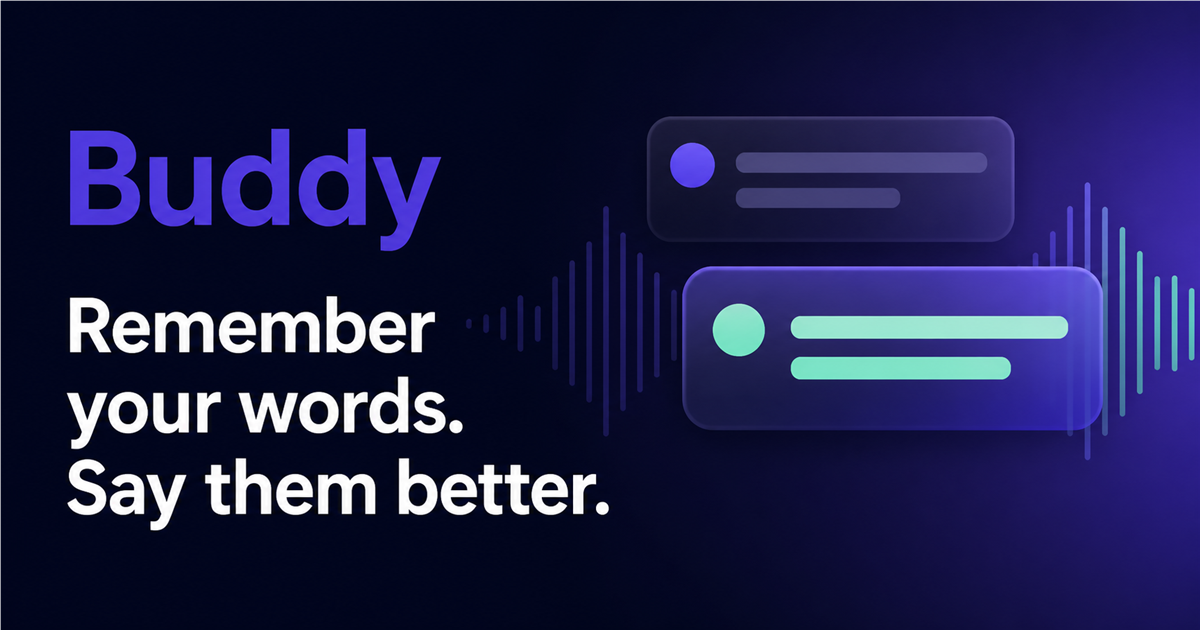
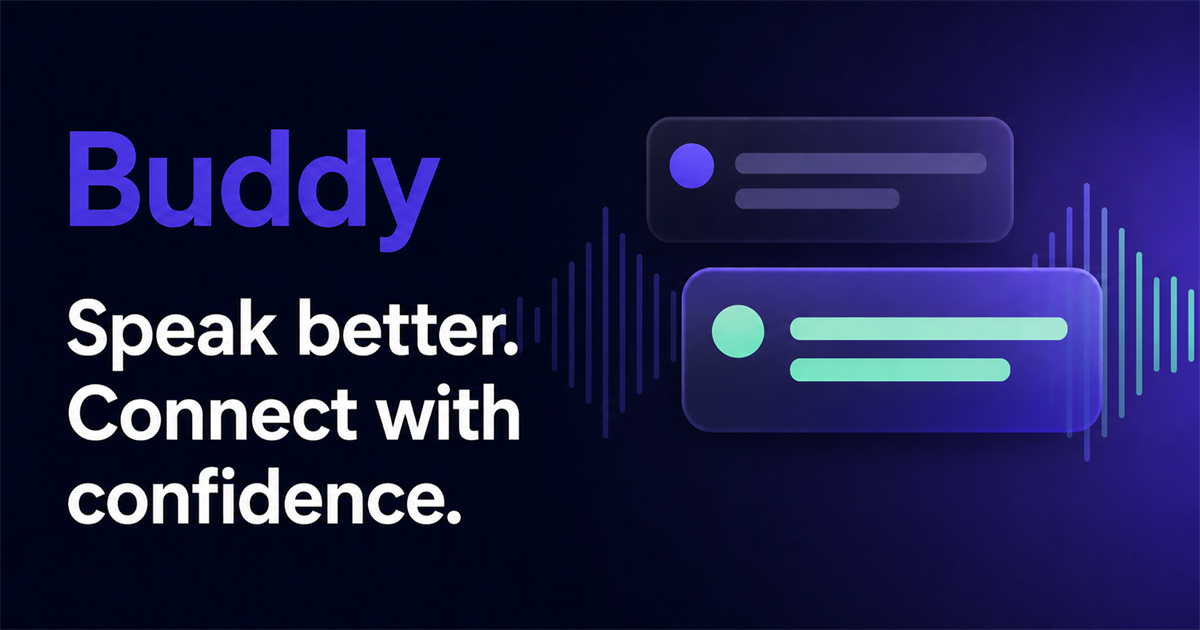
Refocus landing copy on conversation coaching

diff --git a/site/be/index.html b/site/be/index.html
@@ -4,7 +4,7 @@
   <meta charset="utf-8">
   <meta name="viewport" content="width=device-width, initial-scale=1">
   <title>Chitchat Buddy — прыватны маўленчы ШІ-памочнік для камп'ютара</title>
-  <meta name="description" content="Запісвайце свае рэплікі, выразайце паўзы, атрымлівайце транскрыпцыю па запыце і трэніруйце дыялогі з ШІ ў Windows, macOS і Linux.">
+  <meta name="description" content="Практыкуйце размовы, аналізуйце вымаўленне і манеру маўлення, удасканальвайце слоўнік і граматыку і вучыцеся праз дыялогі з ШІ.">
   <meta name="robots" content="index, follow, max-image-preview:large">
   <meta name="theme-color" content="#5b46d8">
   <meta name="color-scheme" content="light">
@@ -17,8 +17,8 @@
   <meta property="og:type" content="website">
   <meta property="og:site_name" content="Chitchat Buddy">
   <meta property="og:locale" content="be_BY">
-  <meta property="og:title" content="Chitchat Buddy — Памятайце свае словы. Кажыце іх лепш.">
-  <meta property="og:description" content="Лакальны настольны памочнік з запісамі без доўгіх паўз, рэдагаванай транскрыпцыяй, трэніроўкай вымаўлення і дыялогам з ШІ.">
+  <meta property="og:title" content="Chitchat Buddy — Гаварыце лепш. Размаўляйце ўпэўнена.">
+  <meta property="og:description" content="Практыкуйце размовы, аналізуйце сваё маўленне, удасканальвайце слоўнік і граматыку і вучыцеся праз кантэкстныя дыялогі з ШІ.">
   <meta property="og:url" content="__SITE_BASE_URL__/be/">
   <meta property="og:image" content="__SITE_BASE_URL__/og.png">
   <meta property="og:image:width" content="1200">
@@ -26,7 +26,7 @@
   <meta property="og:image:alt" content="Buddy з галасавым дыялогам і гукавой хваляй">
   <meta name="twitter:card" content="summary_large_image">
   <meta name="twitter:title" content="Chitchat Buddy — прыватны маўленчы памочнік для камп'ютара">
-  <meta name="twitter:description" content="Запісвайце, удасканальвайце і пераслухоўвайце сваё маўленне з лакальнай апрацоўкай і ШІ на ваш выбар.">
+  <meta name="twitter:description" content="Практыкуйце размовы, аналізуйце сваё маўленне і набывайце ўпэўненасць з лакальнай апрацоўкай і кантэкстным ШІ.">
   <meta name="twitter:image" content="__SITE_BASE_URL__/og.png">
   <link rel="icon" type="image/png" sizes="32x32" href="../favicon-32.png">
   <link rel="apple-touch-icon" sizes="180x180" href="../apple-touch-icon.png">
@@ -38,7 +38,7 @@
     "@type": "SoftwareApplication",
     "name": "Chitchat Buddy",
     "alternateName": "Buddy",
-    "description": "Прыватны настольны памочнік, які захоўвае рэплікі без доўгіх паўз, транскрыбуе, дапамагае з вымаўленнем і падтрымлівае кантэкст дыялогу з ШІ.",
+    "description": "Прыватны настольны памочнік для практыкі размоў, аналізу маўлення, удасканалення слоўніка і граматыкі і навучання праз дыялогі з ШІ.",
     "url": "__SITE_BASE_URL__/be/",
     "downloadUrl": "https://github.com/__BUDDY_REPOSITORY__/releases/latest/download/Buddy-Setup.exe",
     "applicationCategory": "ProductivityApplication",
@@ -96,8 +96,8 @@
     <section class="hero section-shell">
       <div class="hero-copy">
         <p class="eyebrow"><span class="status-dot" aria-hidden="true"></span> Windows стабільная · macOS бэта · Linux папярэдняя</p>
-        <h1>Памятайце свае словы.<br><span>Кажыце іх лепш.</span></h1>
-        <p class="hero-lede">Buddy запісвае вашы рэплікі, ператварае маўленне ў рэдагавальны працэс навучання і захоўвае кантэкст галасавога дыялогу з ШІ, а асноўная апрацоўка гуку застаецца на вашым ПК.</p>
+        <h1>Гаварыце лепш.<br><span>Размаўляйце ўпэўнена.</span></h1>
+        <p class="hero-lede">Buddy дапамагае практыкаваць размовы, аналізаваць вымаўленне і манеру маўлення, удасканальваць слоўнікавы запас і граматыку і вучыцца праз галасавыя дыялогі з ШІ, якія захоўваюць кантэкст, — пры гэтым гук мікрафона і асноўная апрацоўка маўлення застаюцца на вашым ПК.</p>
         <div class="hero-actions"><a class="button button-primary" data-download-asset="Buddy-Setup.exe" aria-describedby="release-note" href="https://github.com/__BUDDY_REPOSITORY__/releases/latest/download/Buddy-Setup.exe">Усталёўшчык Windows</a><a class="button button-secondary" href="#download">Іншыя платформы</a></div>
         <p class="release-status" id="release-status" aria-live="polite">Windows стабільная · macOS бэта · Linux папярэдняя</p>
         <ul class="hero-trust" aria-label="Асноўныя перавагі"><li><span aria-hidden="true">✓</span> Асноўныя функцыі без рэгістрацыі</li><li><span aria-hidden="true">✓</span> Лакальная апрацоўка гуку</li><li><span aria-hidden="true">✓</span> Аднаўляльныя запісы</li></ul>

diff --git a/site/de/index.html b/site/de/index.html
@@ -4,7 +4,7 @@
   <meta charset="utf-8">
   <meta name="viewport" content="width=device-width, initial-scale=1">
   <title>Chitchat Buddy — Privater KI-Sprachbegleiter für den Desktop</title>
-  <meta name="description" content="Zeichne eigene Beiträge auf, entferne Pausen, transkribiere bei Bedarf und übe KI-Sprachdialoge unter Windows, macOS und Linux.">
+  <meta name="description" content="Übe Gespräche, analysiere Aussprache und Ausdruck, verbessere Wortschatz und Grammatik und lerne in gesprochenen KI-Dialogen.">
   <meta name="robots" content="index, follow, max-image-preview:large">
   <meta name="theme-color" content="#5b46d8">
   <meta name="color-scheme" content="light">
@@ -17,8 +17,8 @@
   <meta property="og:type" content="website">
   <meta property="og:site_name" content="Chitchat Buddy">
   <meta property="og:locale" content="de_DE">
-  <meta property="og:title" content="Chitchat Buddy — Erinnere dich an deine Worte. Sag sie besser.">
-  <meta property="og:description" content="Ein lokal arbeitender Desktop-Sprachbegleiter für Aufnahmen ohne lange Pausen, editierbare Transkripte, Aussprachetraining und KI-Dialoge.">
+  <meta property="og:title" content="Chitchat Buddy — Besser sprechen. Sicherer kommunizieren.">
+  <meta property="og:description" content="Übe Gespräche, verstehe deine Sprechweise, verbessere Wortschatz und Grammatik und lerne in kontextbezogenen KI-Dialogen.">
   <meta property="og:url" content="__SITE_BASE_URL__/de/">
   <meta property="og:image" content="__SITE_BASE_URL__/og.png">
   <meta property="og:image:width" content="1200">
@@ -26,7 +26,7 @@
   <meta property="og:image:alt" content="Buddy mit einem Sprachdialog und einer Audio-Wellenform">
   <meta name="twitter:card" content="summary_large_image">
   <meta name="twitter:title" content="Chitchat Buddy — Privater Sprachbegleiter für den Desktop">
-  <meta name="twitter:description" content="Nimm Gesagtes auf, verbessere es und höre es erneut – mit lokaler Sprachverarbeitung und frei wählbarer KI.">
+  <meta name="twitter:description" content="Übe Gespräche, analysiere deine Sprechweise und gewinne Sicherheit mit lokaler Sprachverarbeitung und kontextbezogener KI.">
   <meta name="twitter:image" content="__SITE_BASE_URL__/og.png">
   <link rel="icon" type="image/png" sizes="32x32" href="../favicon-32.png">
   <link rel="apple-touch-icon" sizes="180x180" href="../apple-touch-icon.png">
@@ -38,7 +38,7 @@
     "@type": "SoftwareApplication",
     "name": "Chitchat Buddy",
     "alternateName": "Buddy",
-    "description": "Ein datenschutzfreundlicher Desktop-Sprachbegleiter für Besprechungen ohne lange Pausen, editierbare Transkripte, Aussprachetraining und KI-Dialoge.",
+    "description": "Ein datenschutzfreundlicher Desktop-Begleiter zum Üben von Gesprächen, Analysieren der Sprechweise und Verbessern von Wortschatz und Grammatik.",
     "url": "__SITE_BASE_URL__/de/",
     "downloadUrl": "https://github.com/__BUDDY_REPOSITORY__/releases/latest/download/Buddy-Setup.exe",
     "applicationCategory": "ProductivityApplication",
@@ -96,8 +96,8 @@
     <section class="hero section-shell">
       <div class="hero-copy">
         <p class="eyebrow"><span class="status-dot" aria-hidden="true"></span> Windows stabil · macOS Beta · Linux Vorschau</p>
-        <h1>Erinnere dich an deine Worte.<br><span>Sag sie besser.</span></h1>
-        <p class="hero-lede">Buddy zeichnet deine Beiträge auf, macht aus Sprache einen editierbaren Trainingsablauf und hält den Kontext eines gesprochenen KI-Dialogs – während die zentrale Sprachverarbeitung auf deinem PC bleibt.</p>
+        <h1>Besser sprechen.<br><span>Sicherer kommunizieren.</span></h1>
+        <p class="hero-lede">Buddy hilft dir, Gespräche zu üben, Aussprache und Ausdruck zu analysieren, Wortschatz und Grammatik zu verbessern und in kontextbezogenen gesprochenen KI-Dialogen zu lernen – während Mikrofon-Audio und zentrale Sprachverarbeitung auf deinem PC bleiben.</p>
         <div class="hero-actions"><a class="button button-primary" data-download-asset="Buddy-Setup.exe" aria-describedby="release-note" href="https://github.com/__BUDDY_REPOSITORY__/releases/latest/download/Buddy-Setup.exe">Windows-Installer</a><a class="button button-secondary" href="#download">Andere Plattformen</a></div>
         <p class="release-status" id="release-status" aria-live="polite">Windows stabil · macOS Beta · Linux Vorschau</p>
         <ul class="hero-trust" aria-label="Wichtigste Vorteile"><li><span aria-hidden="true">✓</span> Kein Konto für Kernfunktionen</li><li><span aria-hidden="true">✓</span> Lokale Audioverarbeitung</li><li><span aria-hidden="true">✓</span> Absturzsichere Aufnahmen</li></ul>

diff --git a/site/es/index.html b/site/es/index.html
@@ -4,7 +4,7 @@
   <meta charset="utf-8">
   <meta name="viewport" content="width=device-width, initial-scale=1">
   <title>Chitchat Buddy — Asistente de voz con IA privada para escritorio</title>
-  <meta name="description" content="Graba tus intervenciones, elimina pausas, transcribe bajo demanda y practica conversaciones con IA en Windows, macOS y Linux.">
+  <meta name="description" content="Practica conversaciones, analiza tu pronunciación y expresión, mejora tu vocabulario y gramática y aprende mediante diálogos hablados con IA.">
   <meta name="robots" content="index, follow, max-image-preview:large">
   <meta name="theme-color" content="#5b46d8">
   <meta name="color-scheme" content="light">
@@ -17,8 +17,8 @@
   <meta property="og:type" content="website">
   <meta property="og:site_name" content="Chitchat Buddy">
   <meta property="og:locale" content="es_ES">
-  <meta property="og:title" content="Chitchat Buddy — Recuerda tus palabras. Exprésalas mejor.">
-  <meta property="og:description" content="Un asistente de voz local para escritorio con grabaciones sin pausas largas, transcripción editable, pronunciación y diálogo con IA.">
+  <meta property="og:title" content="Chitchat Buddy — Habla mejor. Comunícate con confianza.">
+  <meta property="og:description" content="Practica conversaciones, comprende cómo hablas, mejora vocabulario y gramática y aprende mediante diálogos contextuales con IA.">
   <meta property="og:url" content="__SITE_BASE_URL__/es/">
   <meta property="og:image" content="__SITE_BASE_URL__/og.png">
   <meta property="og:image:width" content="1200">
@@ -26,7 +26,7 @@
   <meta property="og:image:alt" content="Buddy con una conversación de voz y una forma de onda de audio">
   <meta name="twitter:card" content="summary_large_image">
   <meta name="twitter:title" content="Chitchat Buddy — Asistente de voz privado para escritorio">
-  <meta name="twitter:description" content="Graba, mejora y vuelve a escuchar lo que dices, con procesamiento local y el proveedor de IA que elijas.">
+  <meta name="twitter:description" content="Practica conversaciones, analiza cómo hablas y gana confianza con procesamiento local y diálogo contextual con IA.">
   <meta name="twitter:image" content="__SITE_BASE_URL__/og.png">
   <link rel="icon" type="image/png" sizes="32x32" href="../favicon-32.png">
   <link rel="apple-touch-icon" sizes="180x180" href="../apple-touch-icon.png">
@@ -38,7 +38,7 @@
     "@type": "SoftwareApplication",
     "name": "Chitchat Buddy",
     "alternateName": "Buddy",
-    "description": "Asistente de voz privado para escritorio, pensado para recordar reuniones sin pausas largas, transcribir, mejorar la pronunciación y conversar con IA.",
+    "description": "Asistente privado para practicar conversaciones, analizar el habla, mejorar vocabulario y gramática y aprender mediante diálogos hablados con IA.",
     "url": "__SITE_BASE_URL__/es/",
     "downloadUrl": "https://github.com/__BUDDY_REPOSITORY__/releases/latest/download/Buddy-Setup.exe",
     "applicationCategory": "ProductivityApplication",
@@ -100,8 +100,8 @@
     <section class="hero section-shell">
       <div class="hero-copy">
         <p class="eyebrow"><span class="status-dot" aria-hidden="true"></span> Windows estable · macOS beta · Linux preliminar</p>
-        <h1>Recuerda tus palabras.<br><span>Exprésalas mejor.</span></h1>
-        <p class="hero-lede">Buddy graba tus intervenciones, convierte la voz en un proceso de mejora editable y mantiene el contexto de una conversación hablada con IA, mientras el núcleo de audio permanece en tu PC.</p>
+        <h1>Habla mejor.<br><span>Comunícate con confianza.</span></h1>
+        <p class="hero-lede">Buddy te ayuda a practicar conversaciones, analizar tu pronunciación y tu forma de expresarte, mejorar tu vocabulario y gramática y aprender mediante diálogos hablados y contextuales con IA, mientras el audio del micrófono y el procesamiento principal del habla permanecen en tu PC.</p>
         <div class="hero-actions">
           <a class="button button-primary" data-download-asset="Buddy-Setup.exe" aria-describedby="release-note" href="https://github.com/__BUDDY_REPOSITORY__/releases/latest/download/Buddy-Setup.exe">Instalador de Windows</a>
           <a class="button button-secondary" href="#download">Otras plataformas</a>

diff --git a/site/index.html b/site/index.html
@@ -4,7 +4,7 @@
   <meta charset="utf-8">
   <meta name="viewport" content="width=device-width, initial-scale=1">
   <title>Chitchat Buddy — Private AI speech companion for desktop</title>
-  <meta name="description" content="Record your own meeting speech, cut pauses, transcribe on demand, practise clearer English, and hold contextual voice conversations on Windows, macOS, and Linux.">
+  <meta name="description" content="Practise conversations, analyse pronunciation and delivery, improve vocabulary and grammar, and learn through contextual spoken AI dialogue on desktop.">
   <meta name="robots" content="index, follow, max-image-preview:large">
   <meta name="theme-color" content="#5b46d8">
   <meta name="color-scheme" content="light">
@@ -16,8 +16,8 @@
   <link rel="alternate" hreflang="x-default" href="__SITE_BASE_URL__/">
   <meta property="og:type" content="website">
   <meta property="og:site_name" content="Chitchat Buddy">
-  <meta property="og:title" content="Chitchat Buddy — Remember your words. Say them better.">
-  <meta property="og:description" content="A local-first desktop speech companion for pause-cut meeting recall, editable transcription, pronunciation coaching, and contextual AI dialog.">
+  <meta property="og:title" content="Chitchat Buddy — Speak better. Connect with confidence.">
+  <meta property="og:description" content="Practise conversations, understand how you speak, refine vocabulary and grammar, and learn through contextual spoken AI dialogue.">
   <meta property="og:url" content="__SITE_BASE_URL__/">
   <meta property="og:image" content="__SITE_BASE_URL__/og.png">
   <meta property="og:image:width" content="1200">
@@ -25,7 +25,7 @@
   <meta property="og:image:alt" content="Buddy speech companion with a conversation and audio waveform">
   <meta name="twitter:card" content="summary_large_image">
   <meta name="twitter:title" content="Chitchat Buddy — Private AI speech companion for desktop">
-  <meta name="twitter:description" content="Record, improve, and revisit what you say — with local speech processing and your choice of AI provider.">
+  <meta name="twitter:description" content="Practise conversations, analyse how you speak, and build confidence with local speech processing and contextual AI dialogue.">
   <meta name="twitter:image" content="__SITE_BASE_URL__/og.png">
   <link rel="icon" type="image/png" sizes="32x32" href="./favicon-32.png">
   <link rel="apple-touch-icon" sizes="180x180" href="./apple-touch-icon.png">
@@ -37,7 +37,7 @@
     "@type": "SoftwareApplication",
     "name": "Chitchat Buddy",
     "alternateName": "Buddy",
-    "description": "A privacy-first desktop speech companion for pause-cut meeting recall, editable transcription, pronunciation coaching, and contextual AI dialog.",
+    "description": "A privacy-first desktop companion for practising conversations, analysing speech, improving vocabulary and grammar, and learning through contextual spoken AI dialog.",
     "url": "__SITE_BASE_URL__/",
     "downloadUrl": "https://github.com/__BUDDY_REPOSITORY__/releases/latest/download/Buddy-Setup.exe",
     "applicationCategory": "ProductivityApplication",
@@ -142,8 +142,8 @@
     <section class="hero section-shell">
       <div class="hero-copy">
         <p class="eyebrow"><span class="status-dot" aria-hidden="true"></span> Windows stable · macOS beta · Linux preview</p>
-        <h1>Remember your words.<br><span>Say them better.</span></h1>
-        <p class="hero-lede">Buddy records your own remarks, turns speech into an editable coaching loop, and keeps a spoken AI conversation in context — while the core speech stack stays on your PC.</p>
+        <h1>Speak better.<br><span>Connect with confidence.</span></h1>
+        <p class="hero-lede">Buddy helps you practise conversations, analyse your pronunciation and delivery, refine your vocabulary and grammar, and learn through contextual spoken AI dialogue — all while microphone audio and core speech processing stay on your PC.</p>
         <div class="hero-actions">
           <a class="button button-primary" data-download-asset="Buddy-Setup.exe" aria-describedby="release-note" href="https://github.com/__BUDDY_REPOSITORY__/releases/latest/download/Buddy-Setup.exe">Windows installer</a>
           <a class="button button-secondary" href="#download">Other platforms</a>

diff --git a/site/be/privacy/index.html b/site/be/privacy/index.html
@@ -13,10 +13,9 @@
 </head>
 <body class="guide-page policy-page" data-locale="be" data-root="../.." data-route="privacy/">
   <a class="skip-link" href="#main">Перайсці да асноўнага зместу</a>
-  <header class="site-header"><div class="nav-shell">
+  <header class="site-header document-header"><div class="nav-shell">
     <a class="brand" href="../" aria-label="Галоўная старонка Chitchat Buddy"><span class="brand-mark" aria-hidden="true">b</span><span>Chitchat Buddy</span></a>
-    <nav class="main-nav" aria-label="Асноўная навігацыя"><a href="#local-data">Лакальныя даныя</a><a href="#cloud-ai">Воблачны ШІ</a><a href="#feedback">Водгукі</a><a href="#choices">Ваш выбар</a></nav>
-    <div class="nav-actions"><label class="language-label" for="language-select">Мова</label><select id="language-select" class="language-select" aria-label="Выбраць мову"><option value="en">English</option><option value="es">Español</option><option value="de">Deutsch</option><option value="be" selected>Беларуская</option></select><a class="button button-small" href="../#download">Спампаваць</a></div>
+    <div class="nav-actions"><label class="language-label" for="language-select">Мова</label><select id="language-select" class="language-select" aria-label="Выбраць мову"><option value="en">English</option><option value="es">Español</option><option value="de">Deutsch</option><option value="be" selected>Беларуская</option></select></div>
   </div></header>
 
   <main id="main">

diff --git a/site/be/deepseek-api-key/index.html b/site/be/deepseek-api-key/index.html
@@ -51,10 +51,9 @@
 </head>
 <body class="guide-page" data-locale="be" data-root="../.." data-route="deepseek-api-key/">
   <a class="skip-link" href="#main">Перайсці да асноўнага змесціва</a>
-  <header class="site-header"><div class="nav-shell">
+  <header class="site-header document-header"><div class="nav-shell">
     <a class="brand" href="../" aria-label="Галоўная Chitchat Buddy"><span class="brand-mark" aria-hidden="true">b</span><span>Chitchat Buddy</span></a>
-    <nav class="main-nav" aria-label="Асноўная навігацыя"><a href="#account">Рэгістрацыя</a><a href="#key">API-ключ</a><a href="#buddy">Падключыць Buddy</a><a href="#privacy">Захоўванне</a></nav>
-    <div class="nav-actions"><label class="language-label" for="language-select">Мова</label><select id="language-select" class="language-select" aria-label="Выбраць мову"><option value="en">English</option><option value="es">Español</option><option value="de">Deutsch</option><option value="be" selected>Беларуская</option></select><a class="button button-small" href="../#download">Спампаваць</a></div>
+    <div class="nav-actions"><label class="language-label" for="language-select">Мова</label><select id="language-select" class="language-select" aria-label="Выбраць мову"><option value="en">English</option><option value="es">Español</option><option value="de">Deutsch</option><option value="be" selected>Беларуская</option></select></div>
   </div></header>
 
   <main id="main">

diff --git a/site/es/privacy/index.html b/site/es/privacy/index.html
@@ -13,10 +13,9 @@
 </head>
 <body class="guide-page policy-page" data-locale="es" data-root="../.." data-route="privacy/">
   <a class="skip-link" href="#main">Saltar al contenido principal</a>
-  <header class="site-header"><div class="nav-shell">
+  <header class="site-header document-header"><div class="nav-shell">
     <a class="brand" href="../" aria-label="Inicio de Chitchat Buddy"><span class="brand-mark" aria-hidden="true">b</span><span>Chitchat Buddy</span></a>
-    <nav class="main-nav" aria-label="Navegación principal"><a href="#local-data">Datos locales</a><a href="#cloud-ai">IA en la nube</a><a href="#feedback">Comentarios</a><a href="#choices">Tus opciones</a></nav>
-    <div class="nav-actions"><label class="language-label" for="language-select">Idioma</label><select id="language-select" class="language-select" aria-label="Elegir idioma"><option value="en">English</option><option value="es" selected>Español</option><option value="de">Deutsch</option><option value="be">Беларуская</option></select><a class="button button-small" href="../#download">Descargar</a></div>
+    <div class="nav-actions"><label class="language-label" for="language-select">Idioma</label><select id="language-select" class="language-select" aria-label="Elegir idioma"><option value="en">English</option><option value="es" selected>Español</option><option value="de">Deutsch</option><option value="be">Беларуская</option></select></div>
   </div></header>
 
   <main id="main">

diff --git a/site/de/privacy/index.html b/site/de/privacy/index.html
@@ -13,10 +13,9 @@
 </head>
 <body class="guide-page policy-page" data-locale="de" data-root="../.." data-route="privacy/">
   <a class="skip-link" href="#main">Zum Hauptinhalt springen</a>
-  <header class="site-header"><div class="nav-shell">
+  <header class="site-header document-header"><div class="nav-shell">
     <a class="brand" href="../" aria-label="Chitchat Buddy Startseite"><span class="brand-mark" aria-hidden="true">b</span><span>Chitchat Buddy</span></a>
-    <nav class="main-nav" aria-label="Hauptnavigation"><a href="#local-data">Lokale Daten</a><a href="#cloud-ai">Cloud-KI</a><a href="#feedback">Feedback</a><a href="#choices">Deine Wahl</a></nav>
-    <div class="nav-actions"><label class="language-label" for="language-select">Sprache</label><select id="language-select" class="language-select" aria-label="Sprache auswählen"><option value="en">English</option><option value="es">Español</option><option value="de" selected>Deutsch</option><option value="be">Беларуская</option></select><a class="button button-small" href="../#download">Download</a></div>
+    <div class="nav-actions"><label class="language-label" for="language-select">Sprache</label><select id="language-select" class="language-select" aria-label="Sprache auswählen"><option value="en">English</option><option value="es">Español</option><option value="de" selected>Deutsch</option><option value="be">Беларуская</option></select></div>
   </div></header>
 
   <main id="main">

diff --git a/site/de/deepseek-api-key/index.html b/site/de/deepseek-api-key/index.html
@@ -51,10 +51,9 @@
 </head>
 <body class="guide-page" data-locale="de" data-root="../.." data-route="deepseek-api-key/">
   <a class="skip-link" href="#main">Zum Hauptinhalt springen</a>
-  <header class="site-header"><div class="nav-shell">
+  <header class="site-header document-header"><div class="nav-shell">
     <a class="brand" href="../" aria-label="Chitchat Buddy Startseite"><span class="brand-mark" aria-hidden="true">b</span><span>Chitchat Buddy</span></a>
-    <nav class="main-nav" aria-label="Hauptnavigation"><a href="#account">Registrieren</a><a href="#key">API-Schlüssel</a><a href="#buddy">Buddy verbinden</a><a href="#privacy">Speicherung</a></nav>
-    <div class="nav-actions"><label class="language-label" for="language-select">Sprache</label><select id="language-select" class="language-select" aria-label="Sprache wählen"><option value="en">English</option><option value="es">Español</option><option value="de" selected>Deutsch</option><option value="be">Беларуская</option></select><a class="button button-small" href="../#download">Download</a></div>
+    <div class="nav-actions"><label class="language-label" for="language-select">Sprache</label><select id="language-select" class="language-select" aria-label="Sprache wählen"><option value="en">English</option><option value="es">Español</option><option value="de" selected>Deutsch</option><option value="be">Беларуская</option></select></div>
   </div></header>
 
   <main id="main">

diff --git a/site/es/deepseek-api-key/index.html b/site/es/deepseek-api-key/index.html
@@ -51,18 +51,14 @@
 </head>
 <body class="guide-page" data-locale="es" data-root="../.." data-route="deepseek-api-key/">
   <a class="skip-link" href="#main">Saltar al contenido principal</a>
-  <header class="site-header">
+  <header class="site-header document-header">
     <div class="nav-shell">
       <a class="brand" href="../" aria-label="Inicio de Chitchat Buddy"><span class="brand-mark" aria-hidden="true">b</span><span>Chitchat Buddy</span></a>
-      <nav class="main-nav" aria-label="Navegación principal">
-        <a href="#account">Registro</a><a href="#key">Clave API</a><a href="#buddy">Conectar Buddy</a><a href="#privacy">Retención</a>
-      </nav>
       <div class="nav-actions">
         <label class="language-label" for="language-select">Idioma</label>
         <select id="language-select" class="language-select" aria-label="Elegir idioma">
           <option value="en">English</option><option value="es" selected>Español</option><option value="de">Deutsch</option><option value="be">Беларуская</option>
         </select>
-        <a class="button button-small" href="../#download">Descargar</a>
       </div>
     </div>
   </header>

diff --git a/site/deepseek-api-key/index.html b/site/deepseek-api-key/index.html
@@ -50,18 +50,12 @@
 </head>
 <body class="guide-page" data-locale="en" data-root=".." data-route="deepseek-api-key/">
   <a class="skip-link" href="#main">Skip to main content</a>
-  <header class="site-header">
+  <header class="site-header document-header">
     <div class="nav-shell">
       <a class="brand" href="../" aria-label="Chitchat Buddy home">
         <span class="brand-mark" aria-hidden="true">b</span>
         <span>Chitchat Buddy</span>
       </a>
-      <nav class="main-nav" aria-label="Primary navigation">
-        <a href="#account">Register</a>
-        <a href="#key">API key</a>
-        <a href="#buddy">Connect Buddy</a>
-        <a href="#privacy">Data retention</a>
-      </nav>
       <div class="nav-actions">
         <label class="language-label" for="language-select">Language</label>
         <select id="language-select" class="language-select" aria-label="Choose language">
@@ -70,7 +64,6 @@
           <option value="de">Deutsch</option>
           <option value="be">Беларуская</option>
         </select>
-        <a class="button button-small" href="../#download">Download</a>
       </div>
     </div>
   </header>

diff --git a/site/privacy/index.html b/site/privacy/index.html
@@ -42,14 +42,12 @@
 </head>
 <body class="guide-page policy-page" data-locale="en" data-root=".." data-route="privacy/">
   <a class="skip-link" href="#main">Skip to main content</a>
-  <header class="site-header">
+  <header class="site-header document-header">
     <div class="nav-shell">
       <a class="brand" href="../" aria-label="Chitchat Buddy home"><span class="brand-mark" aria-hidden="true">b</span><span>Chitchat Buddy</span></a>
-      <nav class="main-nav" aria-label="Primary navigation"><a href="#local-data">Local data</a><a href="#cloud-ai">Cloud AI</a><a href="#feedback">Feedback</a><a href="#choices">Your choices</a></nav>
       <div class="nav-actions">
         <label class="language-label" for="language-select">Language</label>
         <select id="language-select" class="language-select" aria-label="Choose language"><option value="en" selected>English</option><option value="es">Español</option><option value="de">Deutsch</option><option value="be">Беларуская</option></select>
-        <a class="button button-small" href="../#download">Download</a>
       </div>
     </div>
   </header>
